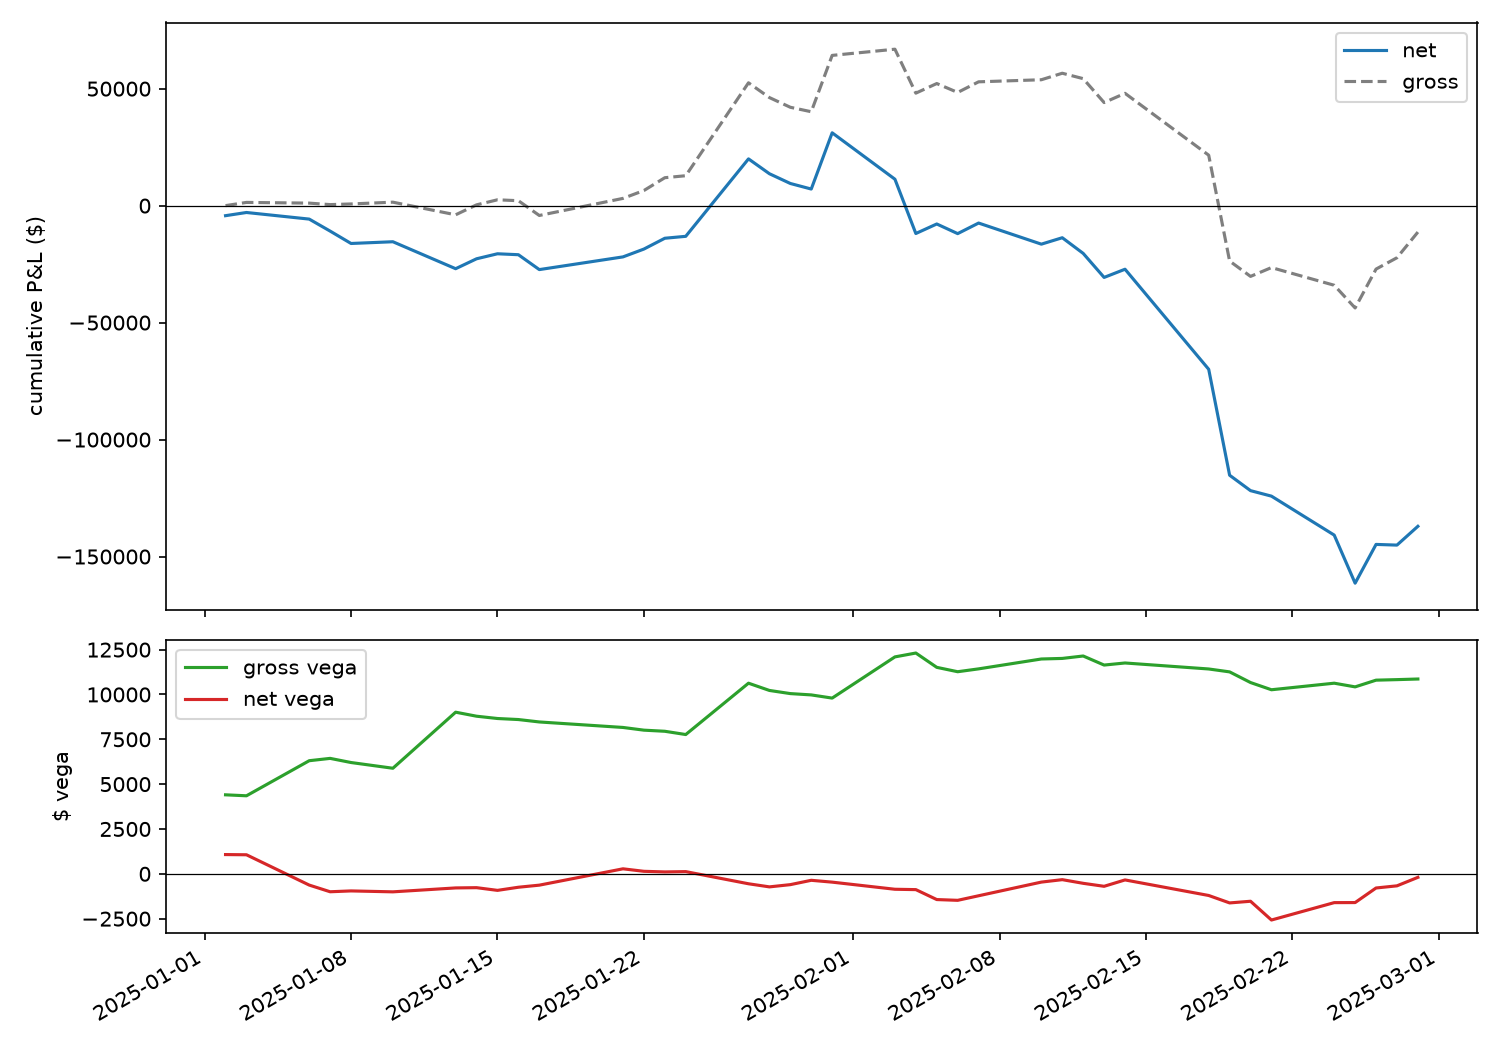
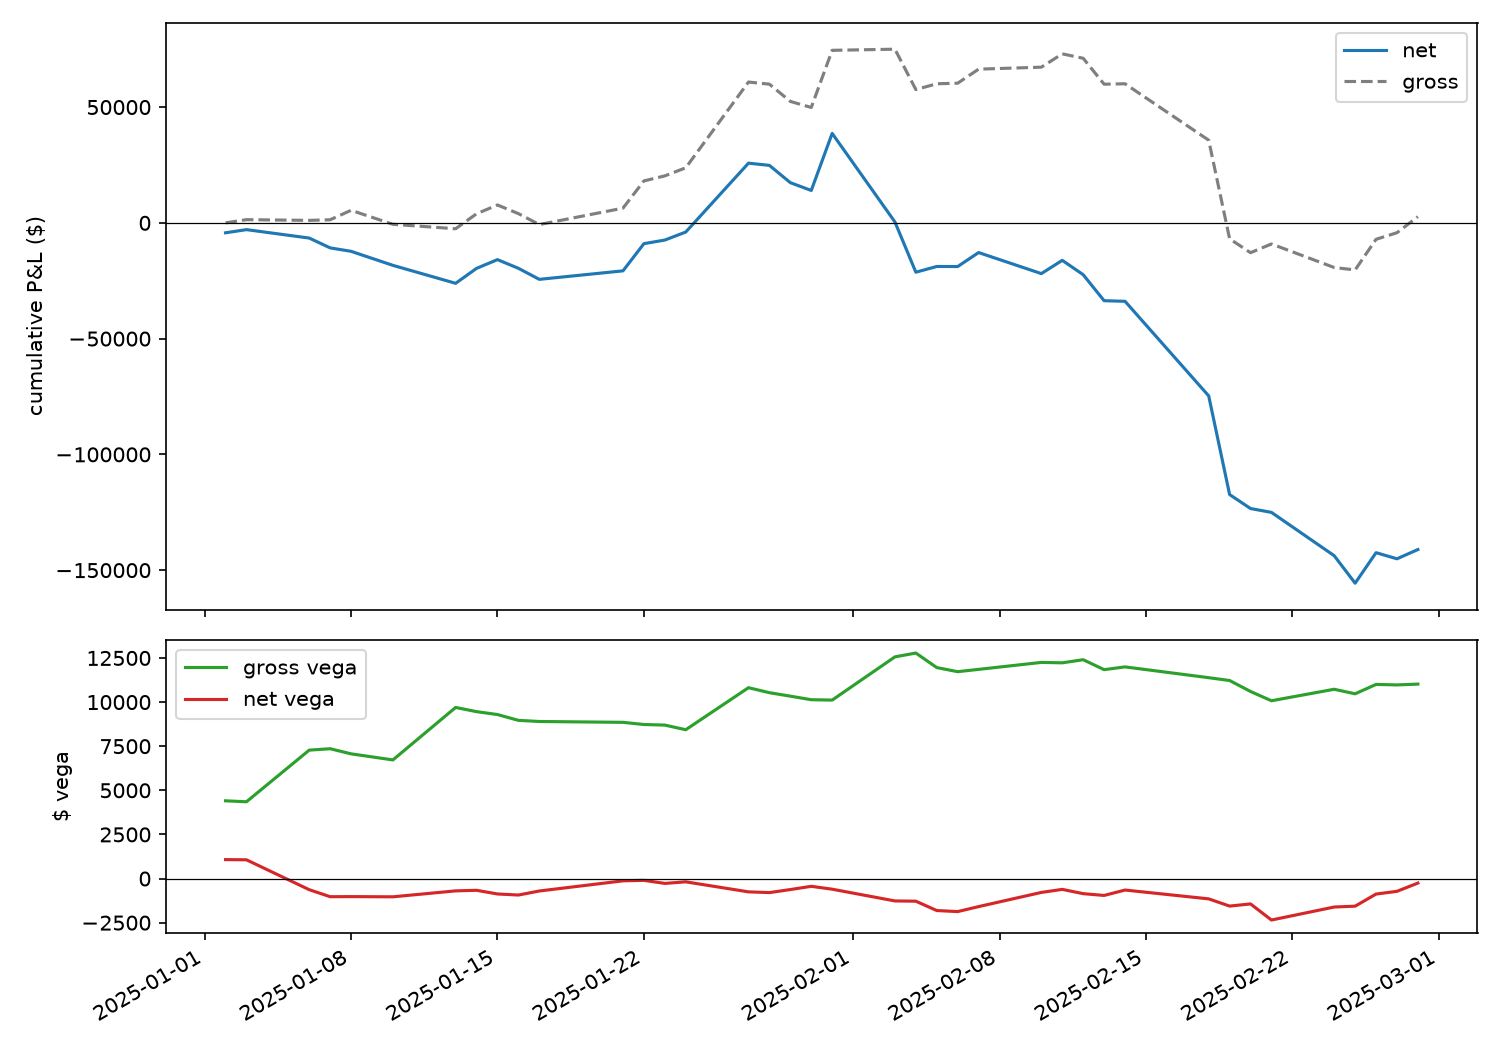
voltium: break selection ties explicitly so runs are reproducible
Two monthly expirations are often equidistant from the 60-day target; the
winner used to depend on parquet row order across threads.

Claude-Session: https://claude.ai/code/session_01EyGhNDwJUvcaUqL1XiScdg

diff --git a/voltium/src/voltium/instruments/straddle.py b/voltium/src/voltium/instruments/straddle.py
@@ -73,11 +73,14 @@ class DeltaHedgedStraddle(Instrument):
         )
         if pairs.is_empty():
             return None
-        nearest_dte = pairs.with_columns((pl.col("dte") - cfg.target_dte).abs().alias("dte_gap"))
-        best_gap = nearest_dte["dte_gap"].min()
+        # Ties are real: monthlies sit 4-5 weeks apart, so two expirations are
+        # often equidistant from the target. Every key is explicit so the
+        # choice never depends on row order: nearest to target, then the
+        # longer of two equidistant series (more time before the roll), then
+        # the strike nearest spot, then the lower strike.
         chosen = (
-            nearest_dte.filter(pl.col("dte_gap") == best_gap)
-            .sort("moneyness", "strike")
+            pairs.with_columns((pl.col("dte") - cfg.target_dte).abs().alias("dte_gap"))
+            .sort(["dte_gap", "dte", "moneyness", "strike"], descending=[False, True, False, False])
             .head(1)
         )
         expiration = chosen["expiration"][0]

diff --git a/voltium/src/voltium/providers/surface.py b/voltium/src/voltium/providers/surface.py
@@ -70,7 +70,7 @@ def compute_atm_pillars(options: pl.LazyFrame, config: SurfaceConfig) -> pl.Lazy
         .with_columns(distance.alias("distance"))
     )
     best_per_right = (
-        candidates.sort("distance")
+        candidates.sort("distance", "strike")  # strike breaks a tie deterministically
         .group_by("date", "symbol", "expiration", "right", maintain_order=True)
         .agg(pl.col("iv").first(), pl.col("dte").first(), pl.col("underlying").first())
     )
